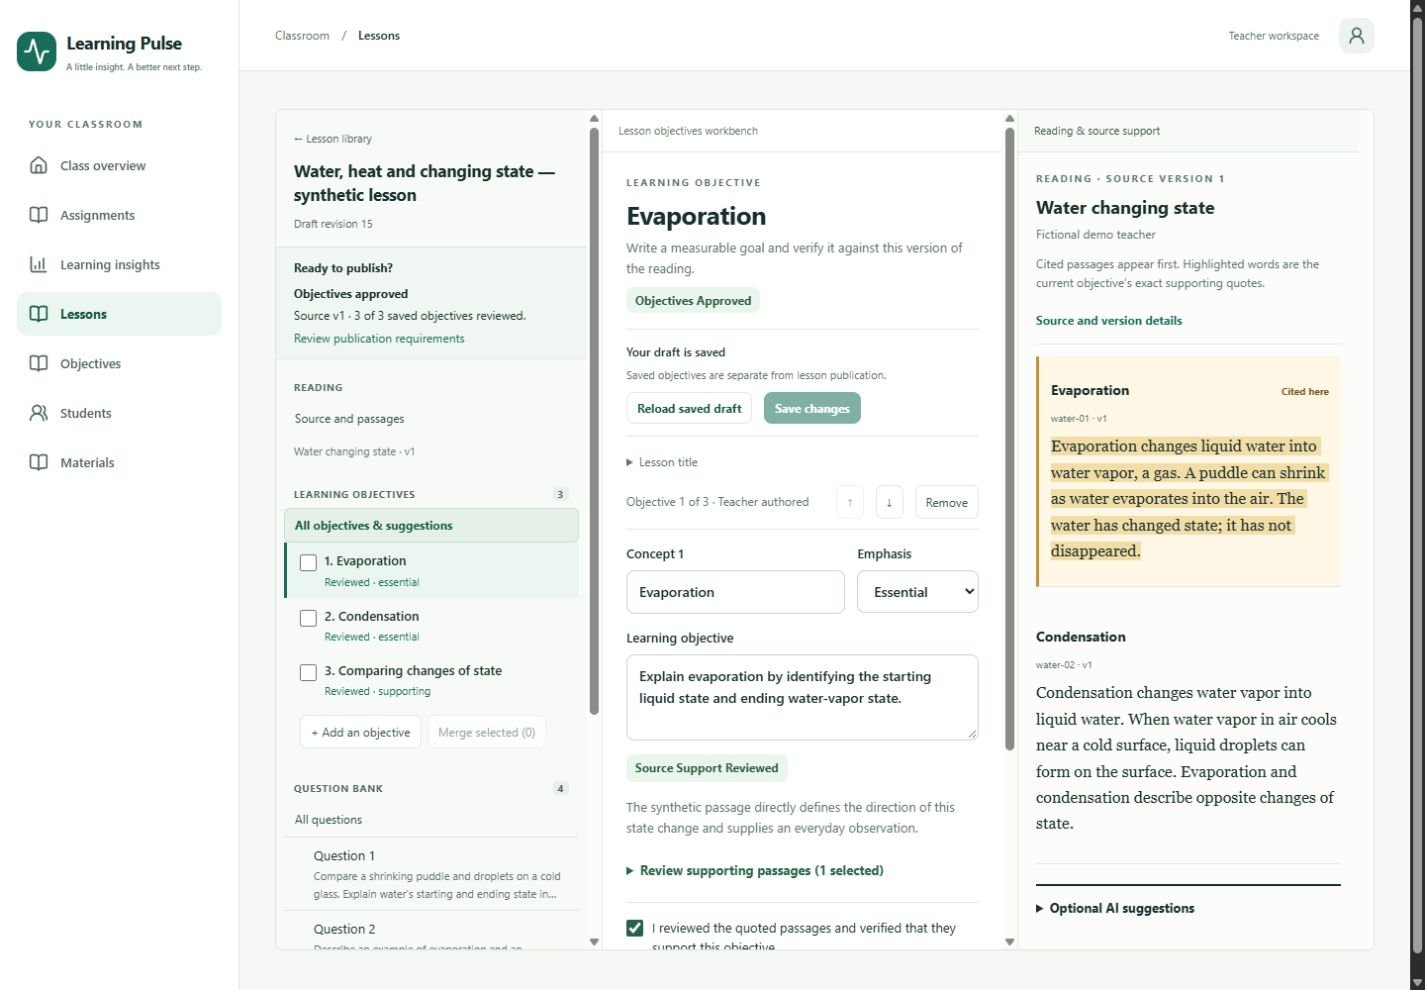
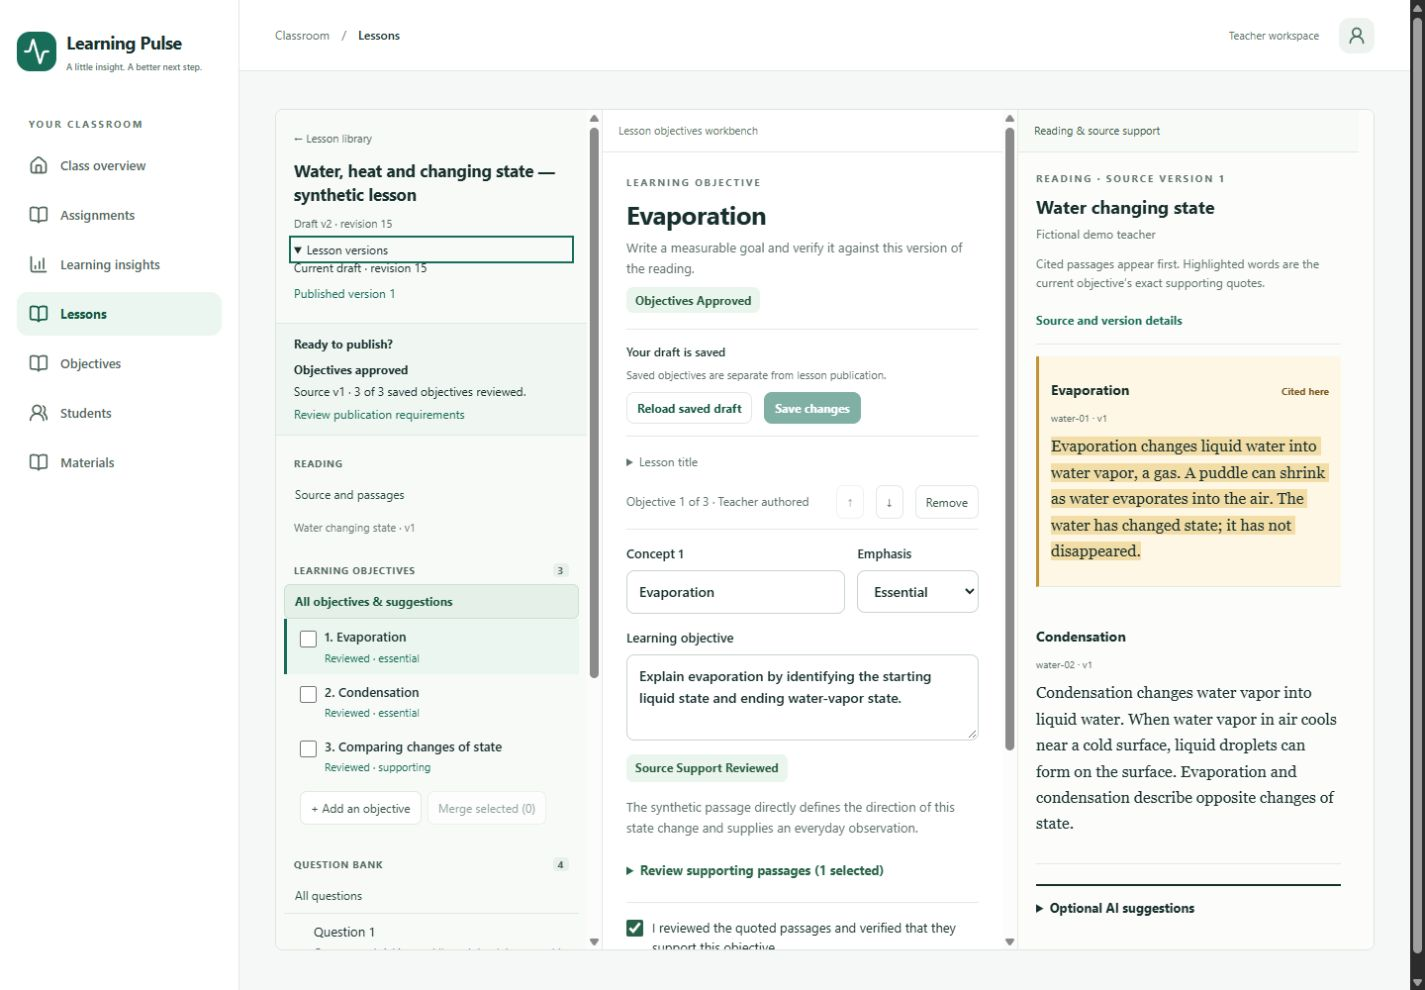
Verify final objectives menu after storage recovery

Changed region(s): [[0.1853, 0.2121, 0.4014, 0.9697], [0.3705, 0.2121, 0.4014, 0.2727], [0.4014, 0.697, 0.4323, 0.7273]]

diff --git a/app/teacher/lessons/verification/report.html b/app/teacher/lessons/verification/report.html
@@ -117,15 +117,17 @@
         server actions within one review node.
       </p>
       <div class="note">
-        <strong>Final build gate remains open.</strong> Two production builds
-        passed during this correction, including the compact question editor.
-        The last small change adds the objectives version menu using the
-        existing authorized publication review service; lint, typecheck and
-        formatting passed after it. Its production rebuild was stopped after
-        TypeScript/page-data collection when a shared-host storage incident left
-        only 2.62 GiB free. Screenshots use the last successful production
-        image, before that final menu addition. No new database acceptance was
-        run after the storage warning.
+        <strong
+          >Final production build and objectives-menu checks passed.</strong
+        >
+        The fresh recovery database gate passed at 04:50:42 UTC on October 25,
+        2026. With 51.70 GiB free on the host and 835.85 GiB in the Docker
+        guest, the production build of <code>7b82197</code> completed at
+        04:52:56 UTC. The shared operation lock was used and released. The final
+        objectives menu passed browser checks at all four requested sizes,
+        including exact published-version navigation and recovery of unsaved
+        edits. PR #118 remains draft and unmerged; broader integration gates
+        remain below.
       </div>
       <h2>Visual comparison</h2>
       <p>
@@ -313,6 +315,47 @@
         ><a href="after-review-1440.png">Publication readiness</a
         ><a href="after-review-320.png">Narrow readiness</a>
       </div>
+      <h2>Final objectives-menu verification</h2>
+      <p>
+        The production image for <code>7b82197</code> is
+        <code
+          >sha256:4baf89e279fa924a4c75b014c3807d4628db10a8b02718d0fa4c690119433e03</code
+        >. See the
+        <a href="production-build.txt">production build record</a> and
+        <a href="final-menu-verification.json">final browser measurements</a>,
+        with the
+        <a href="production-build-receipt.json">storage and build receipt</a>.
+        Earlier question-bank comparisons remain valid for that unchanged
+        surface; the refreshed objective screenshot and five new captures below
+        cover the final menu. The evidence set now contains 25 screenshots.
+      </p>
+      <p>
+        The menu displayed Draft v2 · revision 15 and Published version 1. Enter
+        and Space toggled its native disclosure. Following the published link
+        opened immutable lesson v1 with source v1; its outline links kept
+        <code>?version=1</code>. Returning to the current draft showed v2,
+        revision 15. At 1440 × 1000, 1024 × 768, 390 × 844 and 320 × 844,
+        document/client widths were respectively 1425/1425, 1024/1024, 375/375
+        and 305/305 pixels, with no horizontal page overflow.
+      </p>
+      <p>
+        An unsaved objective edit survived pane changes. Version navigation and
+        Back offered “Restore unfinished edits”; restoring recovered the exact
+        text. The synthetic edit was then discarded through “Reload saved”,
+        restoring the original fixture. No save, publication or assignment
+        mutation occurred. Zero paid model calls were made.
+      </p>
+      <div class="extras">
+        <a href="after-objectives-1440.png">Final objectives menu · 1440px</a
+        ><a href="after-objectives-menu-1024.png">Objectives menu · 1024px</a
+        ><a href="after-objectives-menu-390.png">Objectives menu · 390px</a
+        ><a href="after-objectives-menu-320.png">Objectives menu · 320px</a
+        ><a href="after-objectives-published-v1-1440.png"
+          >Exact immutable publication · 1440px</a
+        ><a href="after-objectives-recovery-320.png"
+          >Unfinished objective recovery · 320px</a
+        >
+      </div>
       <h2>Feature parity and regression results</h2>
       <table>
         <thead>
@@ -348,7 +391,8 @@
             <td>
               objectives:check; 7 objective recovery/highlight tests; exact
               source handoff selected in inline creation form; browser objective
-              selection.
+              selection. Final production menu verified at four widths, with
+              keyboard controls, exact-version navigation and unsaved recovery.
             </td>
           </tr>
           <tr>
@@ -411,9 +455,10 @@
         format:check; content verification (293 checks); git diff --check. Six
         provider-disabled integration suites passed: materials, objectives,
         questions, lessons, publishing and lesson uncertainty. Their run
-        occurred before the shared storage incident. Production build status is
-        qualified above. Zero paid model calls; no live-model or
-        educational-validity claim.
+        occurred before the shared storage incident and was not repeated during
+        this final menu check. The production rebuild and browser verification
+        above passed after fresh recovery clearance. Zero paid model calls; no
+        live-model or educational-validity claim.
       </p>
       <h2>PR #117 integration contract</h2>
       <p>
@@ -444,9 +489,9 @@
           and repeat the four-width comparison.
         </li>
         <li>
-          The final objectives version-menu addition is statically verified but
-          awaits a production rebuild/browser capture when storage is safe. No
-          declaration of final integrated visual acceptance.
+          The final objectives menu has production build and browser evidence.
+          This closes its storage-delayed check, without declaring final
+          integrated visual acceptance across the other agents' branches.
         </li>
         <li>
           The real prepared tutor currently uses one question family.
